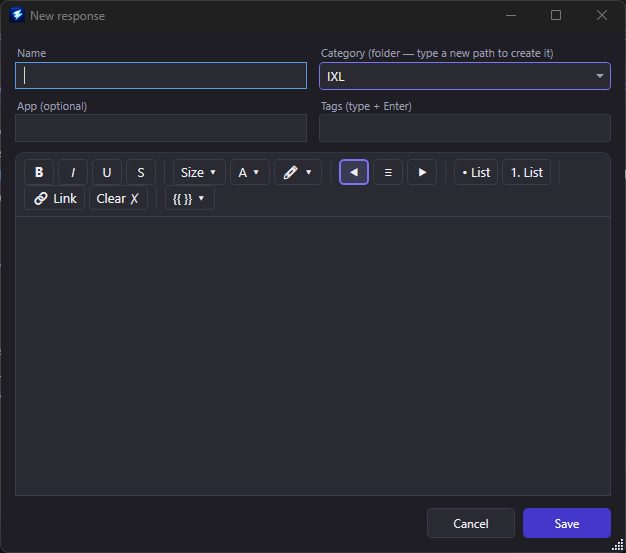
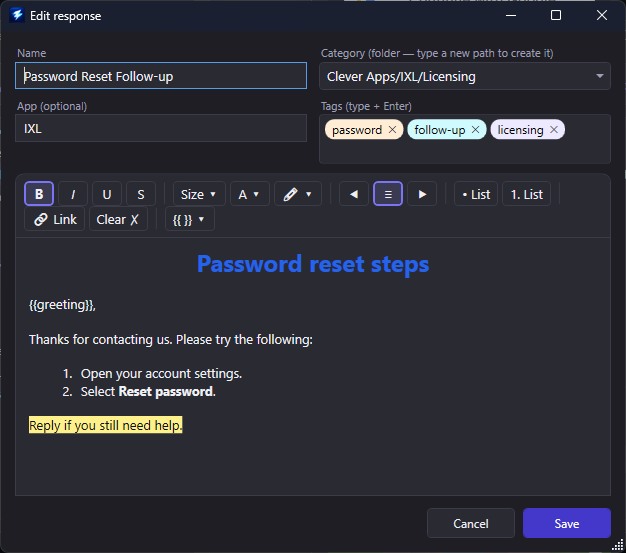
docs: complete independent B32 QA

diff --git a/README.md b/README.md
@@ -25,8 +25,8 @@ out of the way and returns you to your work.
 Use the `QuickReplyKit.exe` supplied by your administrator or project maintainer. Put it in a stable folder such as
 `C:\Tools\QuickReplyKit`, then double-click it. QuickReplyKit remains available in the Windows notification area.
 
-The portable build supports **64-bit Windows 10 and Windows 11**. A clean PC does not need a separate .NET runtime,
-SDK, or Visual C++ Redistributable.
+The portable build supports **Windows 11 x64 and Microsoft-supported Windows 10 Enterprise/LTSC x64 releases**. A
+clean PC does not need a separate .NET runtime, SDK, or Visual C++ Redistributable.
 
 You can distribute either:
 
@@ -90,6 +90,8 @@ The left pane mirrors the real folder structure on disk. It also contains:
 - **Recent** for responses pasted or intentionally copied recently.
 - **All Responses** for the whole library, including visible warnings for invalid files.
 
+Click the star beside a response to add it to or remove it from Favorites.
+
 Select a folder to limit results to that folder and its descendants. A removable scope chip appears by search; its
 label uses the selected folder's short name while the full nested path remains the actual filter. The selected folder
 uses the native Windows selection background plus emphasized text, so the state is visible in Light, Dark, and High
@@ -136,21 +138,21 @@ Right-click a response for every response-level command:
 
 | Command | What it does |
 |---|---|
-| **Edit** | Opens the saved response with name, category, app, tags, and content filled in. Saving updates the library file. |
-| **Edit Response Text...** | Resolves the template, lets you change this one final message, and inserts it without saving or changing the original. |
+| **Edit…** | Opens the saved response with name, category, app, tags, and content filled in. Saving updates the library file. |
+| **Edit Response Text…** | Resolves the template, lets you change this one final message, and inserts it without saving or changing the original. |
 | **Duplicate** | Creates a copy with a safe numbered name. |
-| **Rename** | Renames the response and its JSON file. |
-| **Move to...** | Moves the response to an existing or new folder path. |
+| **Rename…** | Renames the response and its JSON file. |
+| **Move to…** | Moves the response to an existing or new folder path. |
 | **Copy** | Copies the resolved response and leaves the launcher open. |
-| **Instant-paste hotkey...** | Assigns a global rich-text or plain-text shortcut to this response. |
+| **Instant-paste hotkey…** | Assigns a global rich-text or plain-text shortcut to this response. |
 | **Clear instant-paste hotkey** | Appears when assigned and removes that response shortcut. |
 | **Open containing folder** | Selects the source file in Windows Explorer. |
-| **Export response...** | Saves one portable response JSON file. |
-| **Delete** | Moves the response to QuickReplyKit Trash after confirmation. |
+| **Export response…** | Saves one portable response JSON file. |
+| **Delete…** | Moves the response to QuickReplyKit Trash after confirmation. |
 
-Right-click a category for **Export folder...** or **Delete folder**. Folder deletion first creates a required safety
+Right-click a category for **Export folder…** or **Delete folder…**. Folder deletion first creates a required safety
 backup, then moves the entire subtree—including nested responses and side files—into Trash. The toolbar's two-arrow
-menu provides **Import...** and **Export library...**.
+menu provides **Import responses…** and **Export full library…**.
 
 ### Folders and shared libraries
 
@@ -170,7 +172,7 @@ library. Empty folders are valid.
 ### Response tags
 
 In the editor, type a tag and press **Enter**, comma, or **Tab**. Each tag becomes a colored chip below the field;
-use its **x** button to remove it. When the tag field is empty, **Backspace** removes the last chip. Tags are stored
+use its **×** button to remove it. When the tag field is empty, **Backspace** removes the last chip. Tags are stored
 with the response, travel when it is shared, and are included in search. Duplicates are ignored case-insensitively.
 
 QuickReplyKit does not apply tags to folders. Older `.qrkfolder.json` sidecar files are safely ignored.
@@ -194,7 +196,7 @@ Choose a response name, optional app, tags, and destination category. The Catego
 from the dropdown or a new nested path such as `Clever Apps/IXL/Licensing`; missing folders are created on Save.
 
 **New from clipboard** prefers cleaned rich text when available and falls back to encoded plain text. **Edit Response
-Text...** uses the same editor in transient compose mode: library metadata is hidden and the bottom actions become
+Text…** uses the same editor in transient compose mode: library metadata is hidden and the bottom actions become
 Insert / Insert plain instead of Save.
 
 ## Templates, variables, and reusable sections
@@ -248,7 +250,7 @@ Full-trust definitions require the inbox **Windows PowerShell** executable. Quic
 process, without a profile or visible console, and applies source, output, time, cancellation, and concurrency limits.
 Those limits protect app responsiveness; they do not remove the script's Windows permissions.
 
-Open **Settings > Scripts...** to create, validate, enable, inspect, trust, export, or delete definitions. New scripts
+Open **Settings > Scripts…** to create, validate, enable, inspect, trust, export, or delete definitions. New scripts
 default to the restricted language. Trust is local and tied to the exact language and source; editing either revokes
 trust. Trust is never stored in exported definitions.
 
@@ -262,11 +264,11 @@ remains untrusted until reviewed and explicitly approved.
 
 An instant-paste hotkey inserts one response into the active application **without opening the launcher**.
 
-1. Right-click a valid response and choose **Instant-paste hotkey...**.
+1. Right-click a valid response and choose **Instant-paste hotkey…**.
 2. Focus the capture box and press a modifier-plus-key combination such as `Ctrl+Alt+1`.
 3. Choose **Rich text** or **Plain text**, then Save.
 
-Open **Settings > Keyboard shortcuts...** to review every registration. The manager shows the launcher shortcut and
+Open **Settings > Keyboard shortcuts…** to review every registration. The manager shows the launcher shortcut and
 all response shortcuts, filters by shortcut or response name, and labels duplicate combinations or shortcuts already
 in use by another application. Use Edit to reassign a response shortcut or Clear to remove it.
 
@@ -307,7 +309,7 @@ imported, overwritten, kept-as-copy, skipped, invalid/unsafe, stale, and failed 
 
 ### Rolling backups
 
-Open **Settings > Back up / Restore Library...** to create a snapshot, restore the selected snapshot, or open the
+Open **Settings > Back up / Restore Library…** to create a snapshot, restore the selected snapshot, or open the
 configured folder. QuickReplyKit also requires a backup before imports and category-folder deletion.
 
 A current snapshot contains the response library and app settings; older library-only backups remain supported.
@@ -322,7 +324,7 @@ still launches but safely refuses the affected backup, restore, import, or folde
 ### Trash
 
 Delete moves responses and complete categories into Trash instead of erasing them immediately. Open **Settings >
-Trash...** to restore an item to its exact path, delete one permanently, or empty Trash.
+Trash…** to restore an item to its exact path, delete one permanently, or empty Trash.
 
 Restore never overwrites an existing file/folder and keeps the Trash copy on conflict or unsafe path. Items are kept
 for **30 days by default**; retention 0 keeps them until manually removed.
@@ -340,7 +342,8 @@ for **30 days by default**; retention 0 keeps them until manually removed.
 
 ## Settings and desktop integration
 
-Open Settings from the launcher's gear button or tray menu.
+Open Settings from the launcher's gear button or tray menu. Closing the launcher hides it while QuickReplyKit remains
+available in the notification area; choose **Exit** from the tray menu to stop the application.
 
 ![Settings in Dark mode with safe sample paths](docs/images/settings-dark.png)
 
@@ -349,20 +352,20 @@ Defaults are **Ctrl+Alt+D**, **Rich text**, **System** appearance, **Remember wi
 | Setting or tool | Purpose |
 |---|---|
 | **Global hotkey** | Change the launcher shortcut. Invalid or occupied combinations are reported safely. |
-| **Keyboard shortcuts...** | Review launcher/instant-paste registrations and conflicts. |
-| **Scripts...** | Manage restricted-expression and full-trust PowerShell definitions. |
+| **Keyboard shortcuts…** | Review launcher/instant-paste registrations and conflicts. |
+| **Scripts…** | Manage restricted-expression and full-trust PowerShell definitions. |
 | **Response library folder** | Change or open the watched library location. |
 | **Backup folder** | Change or open the rolling-snapshot location. |
-| **Back up / Restore Library...** | Create and restore snapshots. |
-| **Trash...** | Restore or permanently remove deleted responses/categories. |
+| **Back up / Restore Library…** | Create and restore snapshots. |
+| **Trash…** | Restore or permanently remove deleted responses/categories. |
 | **Default paste behavior** | Choose Rich text or Plain text for Enter/Paste. |
 | **Appearance** | Follow Windows (System) or force Light/Dark; Cancel reverts the live preview. |
 | **Remember window size & position** | Restore useful visible bounds after monitor changes. |
 | **Launch at Windows startup** | Register QuickReplyKit for the current Windows user. |
 | **Verbose logging** | Add bounded troubleshooting counts/timings without response/customer content. |
-| **About / Diagnostics...** | Show version, environment, registration counts, state, and support locations. |
+| **About / Diagnostics…** | Show version, environment, registration counts, state, and support locations. |
 
-The tray menu provides **Open QuickReplyKit**, **Open Response Library**, **Import...**, **Export library...**,
+The tray menu provides **Open QuickReplyKit**, **Open Response Library**, **Import…**, **Export library…**,
 **Settings**, **Open logs folder**, and **Exit**. Double-click the tray icon to open the launcher. Only one app instance
 runs; starting the EXE again asks the existing instance to show itself.
 
@@ -372,7 +375,7 @@ runs; starting the EXE again asks the existing instance to show itself.
 
 When reporting a problem:
 
-1. Open **Settings > About / Diagnostics...**.
+1. Open **Settings > About / Diagnostics…**.
 2. Use **Copy** to copy the support summary.
 3. Use **Open logs folder** and include the current session log if your support policy permits it.
 4. Describe the failed action and approximate time.
@@ -420,7 +423,7 @@ the support report.
 ### Ctrl+Alt+D does not open QuickReplyKit
 
 - Confirm the tray icon is present and open the launcher from its menu.
-- Open **Settings > Keyboard shortcuts...** and check the launcher row.
+- Open **Settings > Keyboard shortcuts…** and check the launcher row.
 - Another app may own the combination. Choose another global hotkey and Save.
 - If the app is not running, start `QuickReplyKit.exe` again.
 
@@ -468,7 +471,7 @@ the support report.
 
 ## Known limits
 
-- Windows-only: 64-bit Windows 10/11.
+- Windows-only: Windows 11 x64 and Microsoft-supported Windows 10 Enterprise/LTSC x64 releases.
 - The executable is unsigned, so SmartScreen or organizational controls may prompt or block it.
 - Rich rendering depends on the destination application's clipboard support.
 - Focus and common-format clipboard restoration are best-effort across privilege, app, and remote-session boundaries.

diff --git a/docs/STATUS.md b/docs/STATUS.md
@@ -9,8 +9,8 @@
 - **Last audited:** 2026-09-08
 - **Current product merge:** `08de27d` (B31 whole-app UI and interaction consistency);
   use `git rev-parse HEAD` for the docs-inclusive tip.
-- **Current product baseline:** B01-B31 are complete on `main`. B32 is implemented on `end-user-readme` and awaiting
-  independent documentation QA; it has no product-code changes.
+- **Current product baseline:** B01-B31 are complete on `main`. B32 is independently QA'd on `end-user-readme` and
+  ready to merge; it has no product-code changes.
 - **Build:** clean, 0 warnings / 0 errors (`dotnet build QuickReplyKit.slnx -c Release -p:NuGetAudit=false`).
 - **Tests:** **785 passed** on merged `main` after B31, independently rerun after visual/accessibility review.
 - **Portable publish:** `publish/QuickReplyKit.exe` was rebuilt from `08de27d` at 69,932,892 bytes (SHA-256
@@ -83,8 +83,9 @@
   Compact action buttons wrap without clipping;
   pointer states are restrained while keyboard focus remains explicit.
 - **Paste:** configurable launcher hotkey (default **Ctrl+Alt+D**) plus per-response global hotkeys that paste
-  rich or plain without opening the launcher. Focus returns to the prior app; clipboard content is restored;
-  transient paste content is marked to stay out of Windows clipboard history.
+  rich or plain without opening the launcher. QuickReplyKit attempts to restore the prior app and common clipboard
+  formats; transient paste content is marked so Windows should not retain it in clipboard history. These behaviors
+  remain best-effort across privilege, application, and clipboard-format boundaries.
 - **Library/editor:** live-watched folder hierarchy; create/edit/duplicate/rename/move; rich editor with standard
   color/highlight palettes, lists, links, alignment, size, strike, response-tag chips, edit-before-insert, templates,
   safe built-in variables, response includes, restricted `{{script:Name}}` expressions, and explicitly trusted
@@ -101,13 +102,13 @@
 
 ## Remaining Work
 
-B32 is the only active item in [`BACKLOG.md`](BACKLOG.md). It is implemented on the isolated `end-user-readme`
-worktree and awaits independent editorial, link, screenshot, and accuracy QA. The branch moves build/publish/runtime
-dependency/contributor details to `docs/DEVELOPMENT.md`, replaces the root README with an end-user guide, and adds
-10 curated current UI screenshots plus the app icon. Local links, every PNG, image-tracking rules, code fences,
-headings, and screenshot privacy were checked; the Release build is clean and the unchanged product baseline remains
-785/785. There is no product-source or build-behavior change; the only project-file edit corrects a documentation
-link in an XML comment.
+B32 is the only active item in [`BACKLOG.md`](BACKLOG.md). It is complete and independently QA'd on the isolated
+`end-user-readme` worktree, ready for `--no-ff` merge. The branch moves build/publish/runtime dependency/contributor
+details to `docs/DEVELOPMENT.md`, replaces the root README with an end-user guide, and adds 10 curated current UI
+screenshots plus the app icon. QA checked every user-facing claim against shipping code, recaptured misleading editor
+and shortcut examples, inspected every PNG, validated local links/Markdown/HTML, and confirmed screenshot privacy.
+The Release build is clean and the unchanged product baseline remains 785/785. There is no product-source or
+build-behavior change; the only project-file edit corrects a documentation link in an XML comment.
 
 **Known confirmed regressions/defects:** none after B20.
 
@@ -143,7 +144,7 @@ work. Branch names must stay human-readable and must not contain AI/vendor names
    [`README.md`](../README.md) is the end-user guide.
 2. Start from `main`; confirm `git status --short --branch` is clean. All old feature branches are merged.
 3. Put `C:\Program Files\dotnet` on `PATH`. In an offline sandbox, point `NUGET_PACKAGES` at
-   `C:\Users\Kevin_Lucas\.nuget\packages` and restore with `-p:NuGetAudit=false`.
+   `$env:USERPROFILE\.nuget\packages` and restore with `-p:NuGetAudit=false`.
 4. Run build + tests; expect **785** green after B31. Registry tests need normal current-user registry access.
 5. If [`BACKLOG.md`](BACKLOG.md) gains a requested item, take its first active entry on a new branch. Use ponytail, then separate-agent QA,
    headless UI/state tests and static XAML review, appropriate non-disruptive self-tests, a no-regression run, and a

diff --git a/docs/BACKLOG.md b/docs/BACKLOG.md
@@ -11,7 +11,7 @@ may still have a Confirmed remaining gap; its merge is noted in the item.
 
 ### B32 - End-user GitHub README and complete visual guide
 
-- **Severity / status:** P2 · Documentation · QA
+- **Severity / status:** P2 · Documentation · QA complete; ready to merge
 - **Acceptance:** make the root `README.md` a polished end-user landing page that presents QuickReplyKit clearly and
   documents every shipped workflow: installation and portable distribution, first run, launcher hotkey, search and
   folder navigation, preview, rich/plain paste and copy, instant response hotkeys, creating/editing/organizing
@@ -22,9 +22,10 @@ may still have a Confirmed remaining gap; its merge is noted in the item.
   accurate for the final executable, and attractive on GitHub.
 - **Implementation:** branch `end-user-readme` contains the end-user-first guide, 10 curated shipping-UI screenshots
   plus the app icon, a separate maintainer guide at [`DEVELOPMENT.md`](DEVELOPMENT.md), narrow documentation-image
-  tracking, and corrected
-  documentation links/completion boundaries. Local links, image decoding, screenshot privacy, Markdown structure,
-  Release build, and all 785 tests pass; it awaits independent editorial/link/image QA before merge.
+  tracking, and corrected documentation links/completion boundaries. Independent QA verified every user-facing claim
+  against shipping code; corrected supported-Windows wording, exact UI labels, clipboard wording, and handoff privacy;
+  recaptured the editor and shortcut manager with healthy safe examples; inspected every image; validated all local
+  links/Markdown/HTML; and reran the clean Release build plus all 785 tests. Ready for `--no-ff` merge.
 
 ## Deferred Ideas
 

diff --git a/docs/DEVELOPMENT.md b/docs/DEVELOPMENT.md
@@ -16,7 +16,7 @@ Root `AGENTS.md` and `CLAUDE.md` are local operating instructions and intentiona
 
 ## Toolchain
 
-- Windows 10/11 x64 development machine.
+- Windows 11 x64 or a Microsoft-supported Windows 10 Enterprise/LTSC x64 development machine.
 - .NET 10 SDK. On the primary workstation, `dotnet.exe` is under `C:\Program Files\dotnet`.
 - WPF/C# targeting `net10.0-windows` with `UseWPF=true`.
 - No third-party runtime/NuGet dependencies in the product projects: use the BCL, WPF, or native Windows APIs.
@@ -117,8 +117,9 @@ the test count, product commit, byte size, and SHA-256 in `STATUS.md`.
 
 ## Runtime requirements and dependency inventory
 
-The published `win-x64` executable is self-contained. A target PC needs 64-bit Windows 10 or Windows 11. It does not
-need a separate .NET runtime, SDK, Visual C++ Redistributable, or NuGet package.
+The published `win-x64` executable is self-contained. A target PC needs Windows 11 x64 or a
+[Microsoft-supported Windows 10 Enterprise/LTSC x64 release](https://learn.microsoft.com/dotnet/core/install/windows).
+It does not need a separate .NET runtime, SDK, Visual C++ Redistributable, or NuGet package.
 
 The single file bundles the .NET 10 runtime, WPF, application assemblies, and native runtime libraries. Representative
 bundled native components include:
